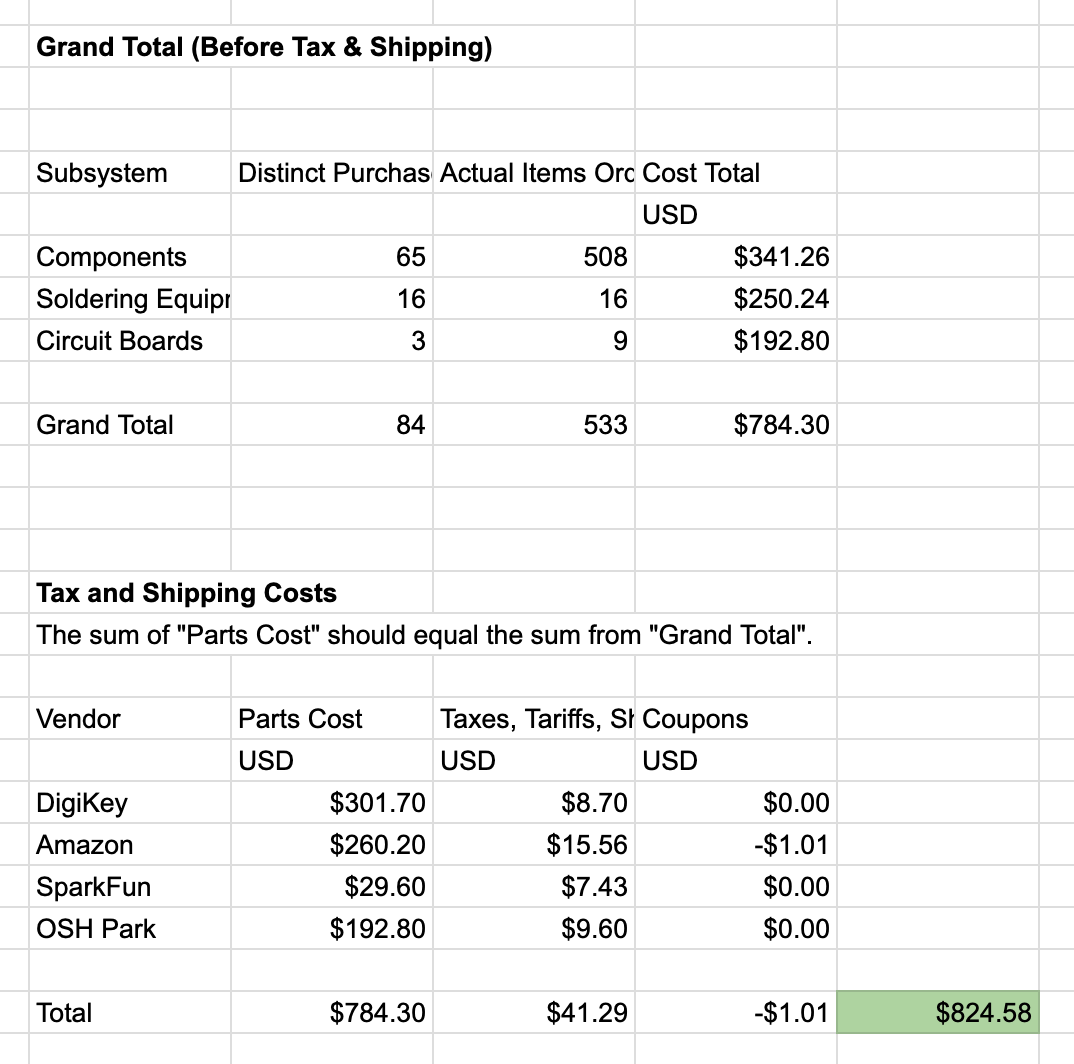
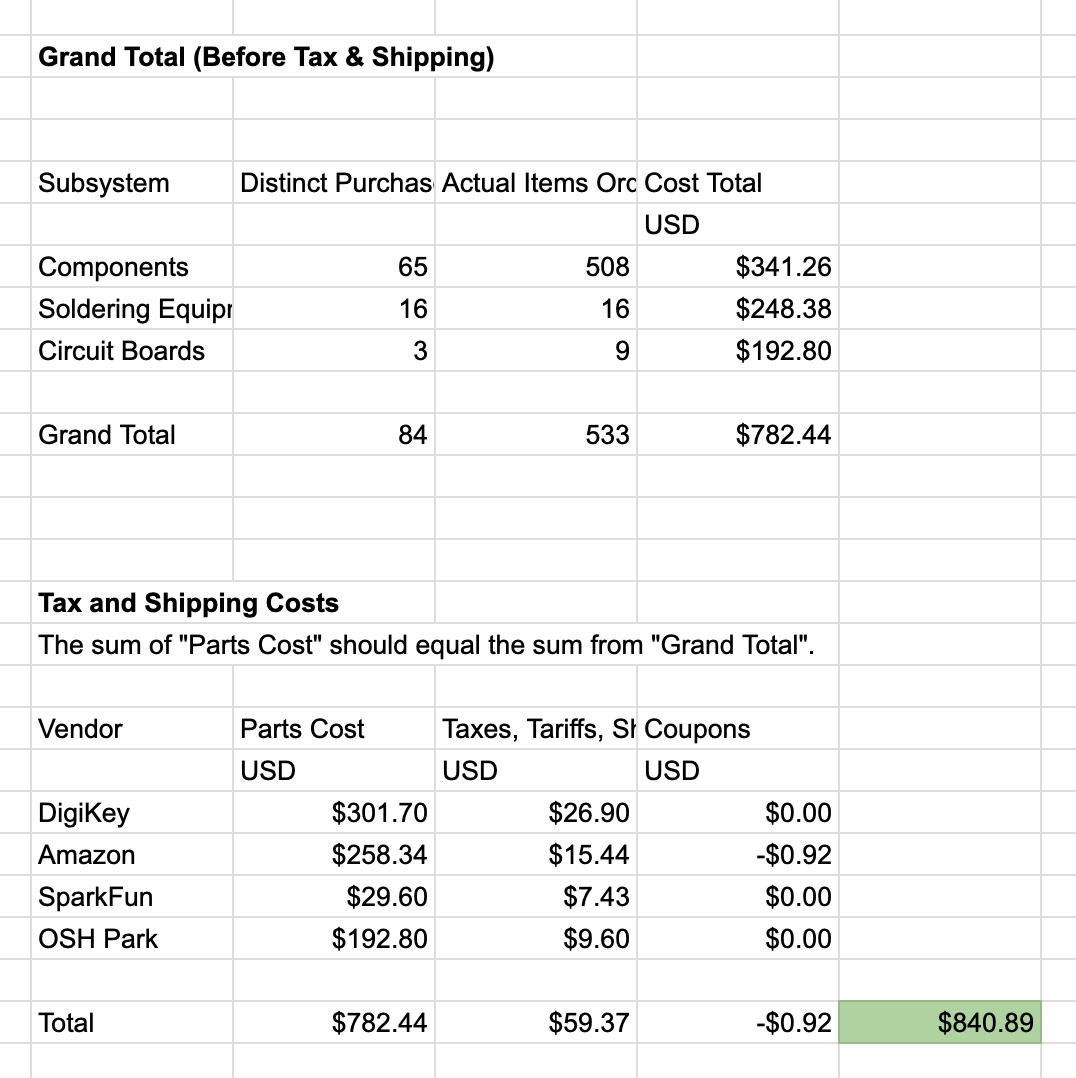
Update the image with final costs

diff --git a/README.md b/README.md
@@ -560,8 +560,6 @@ I am going to order all equipment today, out of pocket. Previously, I used a cro
 
 ![September 8, Part 1](./Documentation/New/September8_Part1.png)
 
-_BOM calculated at the time of writing. Subject to small changes from day-to-day price fluctuations._
-
 I will be reimbursed for all of this, and receive back pay for the person hours spent on the Transimpedance Amplifier project, once I have financial stability. I will never resort to working part-time in unrelated jobs such as the AI field. I will always spend my time how I see fit, for my own priorities, on nobody else's schedule. Real world hardware is what gets serious funding.
 
 ---
